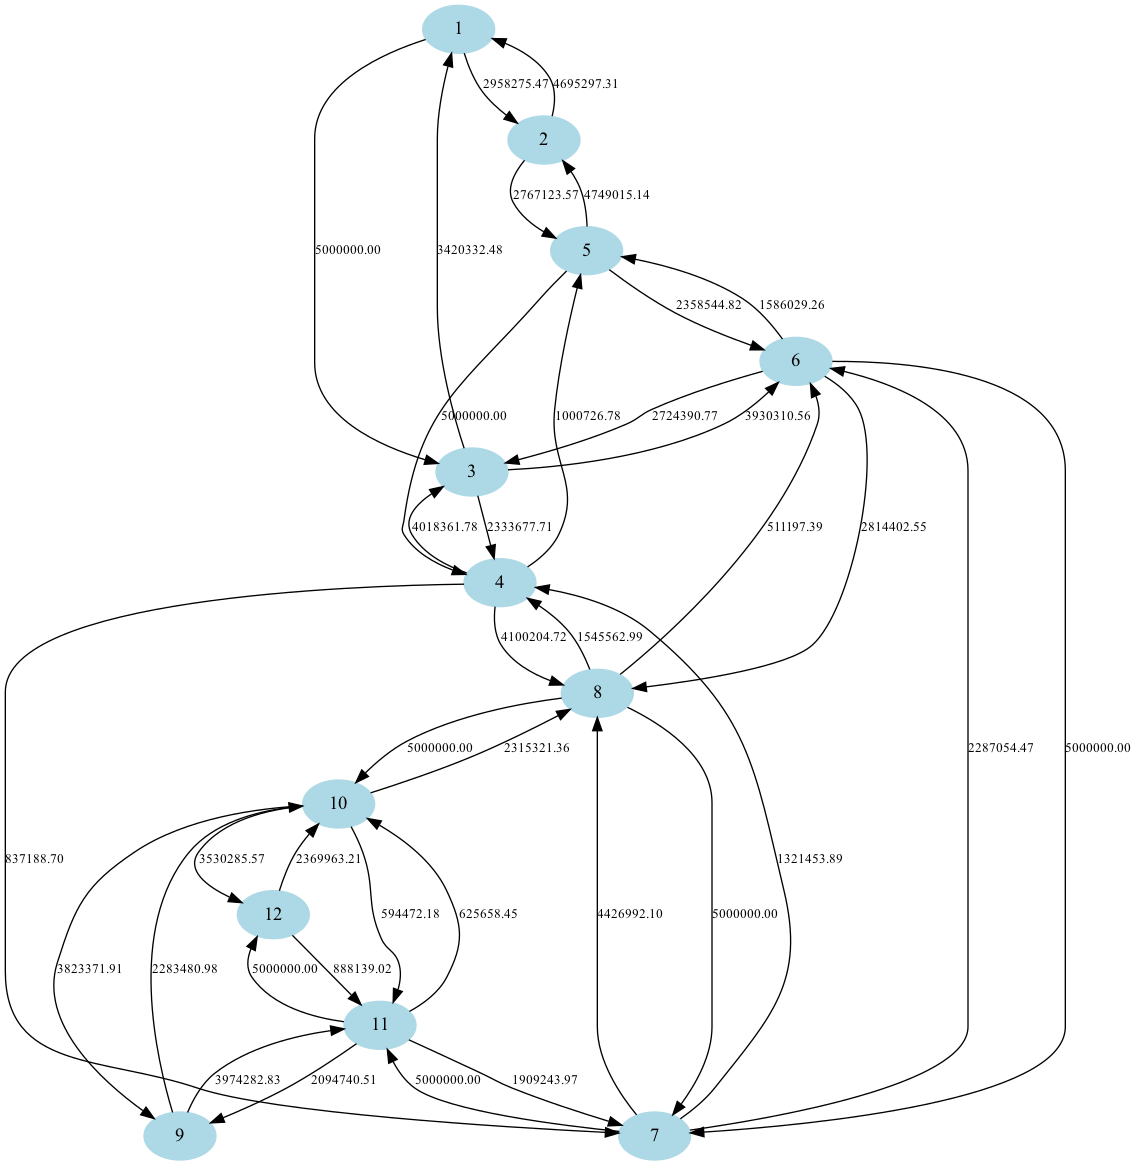
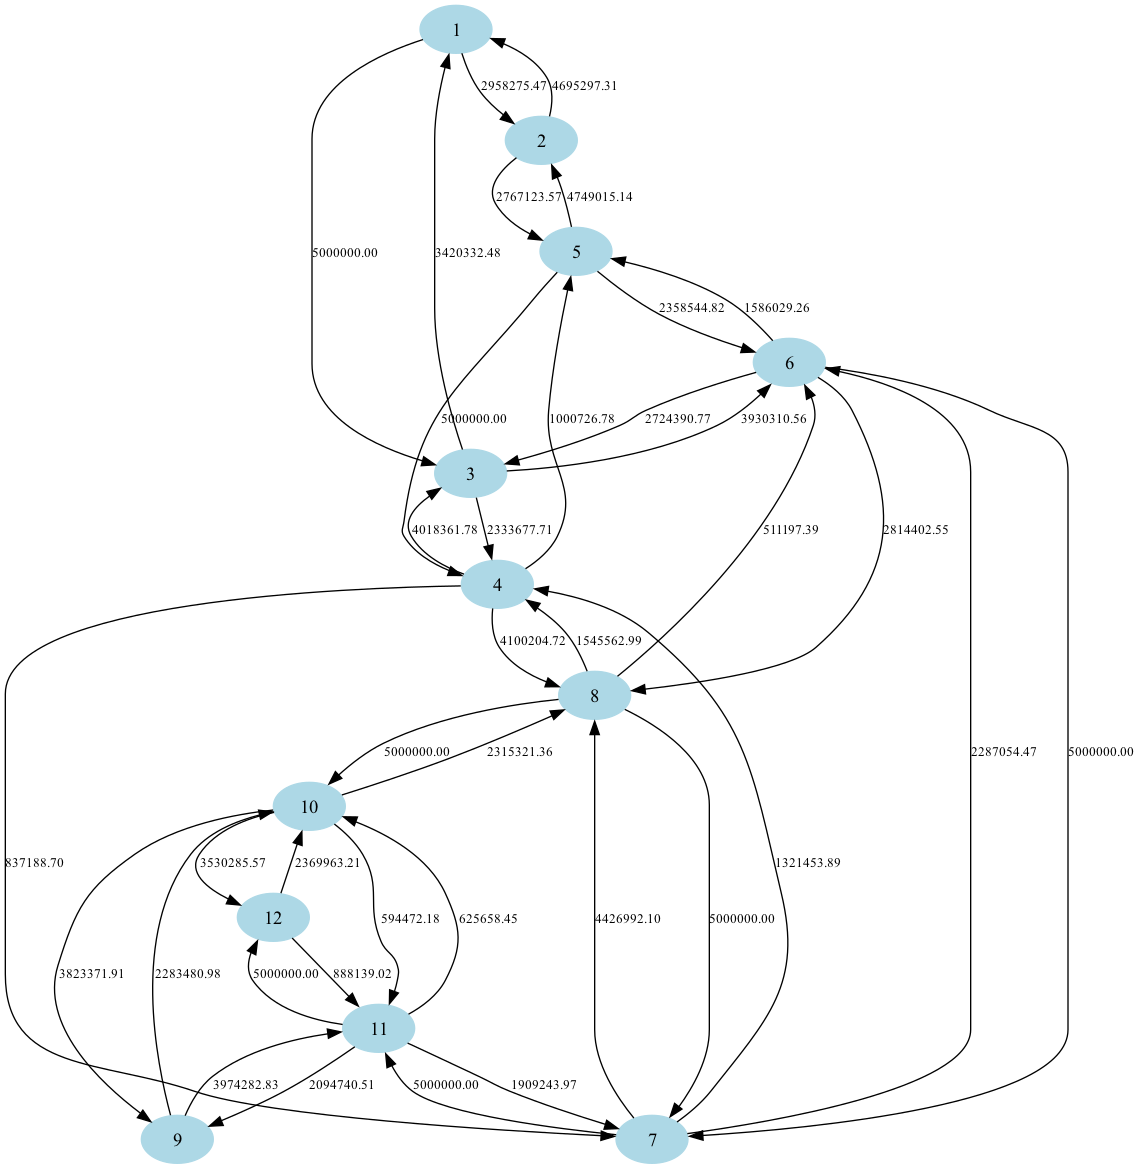
Fixed Graphviz and added flow allocation graphs

diff --git a/main.py b/main.py
@@ -114,54 +114,47 @@ def create_mcf_model(graph, demands):
 
 
 def draw_flow_allocations(graph, flow):
-    # Adding flow
+    # Copy graph
+    graph_copy = nx.DiGraph(graph)
+
+    # Flow attributes
     for s, d, a, b, i in flow:
         if flow[s, d, a, b, i].x > 0:
-            if graph.has_edge(a, b):
-                if 'flow' in graph[a][b]:
-                    graph[a][b]['flow'] += flow[s, d, a, b, i].x
+            if graph_copy.has_edge(a, b):
+                if 'flow' in graph_copy[a][b]:
+                    graph_copy[a][b]['flow'] += flow[s, d, a, b, i].x
                 else:
-                    graph[a][b]['flow'] = flow[s, d, a, b, i].x
+                    graph_copy[a][b]['flow'] = flow[s, d, a, b, i].x
             else:
-                graph.add_edge(a, b, flow=flow[s, d, a, b, i].x)
+                graph_copy.add_edge(a, b, flow=flow[s, d, a, b, i].x)
 
     # Convert graph (networkx --> pygraphviz)
-    A = nx.nx_agraph.to_agraph(graph)
+    A = nx.nx_agraph.to_agraph(graph_copy)
 
-    # Appearance
+    # Graph appearance
     A.node_attr.update(color="lightblue", style="filled", fontsize=14)
     A.edge_attr.update(fontsize=10)
 
     # Flow labels
     for a, b in A.edges():
-        flow_value = graph[int(a)][int(b)]['flow']
+        flow_value = graph_copy[int(a)][int(b)]['flow']
         A.get_edge(a, b).attr['label'] = f"{flow_value:.2f}"
 
     # Render + Display
     A.draw("flow_allocations.png", prog='dot')
-    A.view("flow_allocations.png")
 
 
 def main():
     topology_file = 'topology.txt'
     demands_file = 'demand.txt'
 
-    graph1 = parse_topology(topology_file)
-    num_nodes = graph1.number_of_nodes()
+    graph = parse_topology(topology_file)
+    num_nodes = graph.number_of_nodes()
     demands = parse_demands(demands_file, num_nodes)
-    # print(demands)
-    # draw(graph)
-    graph2 = graph1.copy()
-    mcf_model, flow = create_mcf_model(graph1, demands)
-    print("Total throughput:", mcf_model.objVal, "Gbps")
-    draw_flow_allocations(graph2, flow)
 
-    # mcf_model, flow_vars = create_mcf_model(graph, demands)
-    # if mcf_model.status == GRB.OPTIMAL:
-    #     print("Total throughput:", mcf_model.objVal, "Gbps")
-    #     # draw_flow_allocations(graph, demands, flow_vars)
-    # else:
-    #     print("No optimal solution found.")
+    mcf_model, flow = create_mcf_model(graph, demands)
+    print("Total throughput:", mcf_model.objVal, "Gbps")
+    draw_flow_allocations(graph, flow)
 
 
 if __name__ == "__main__":
